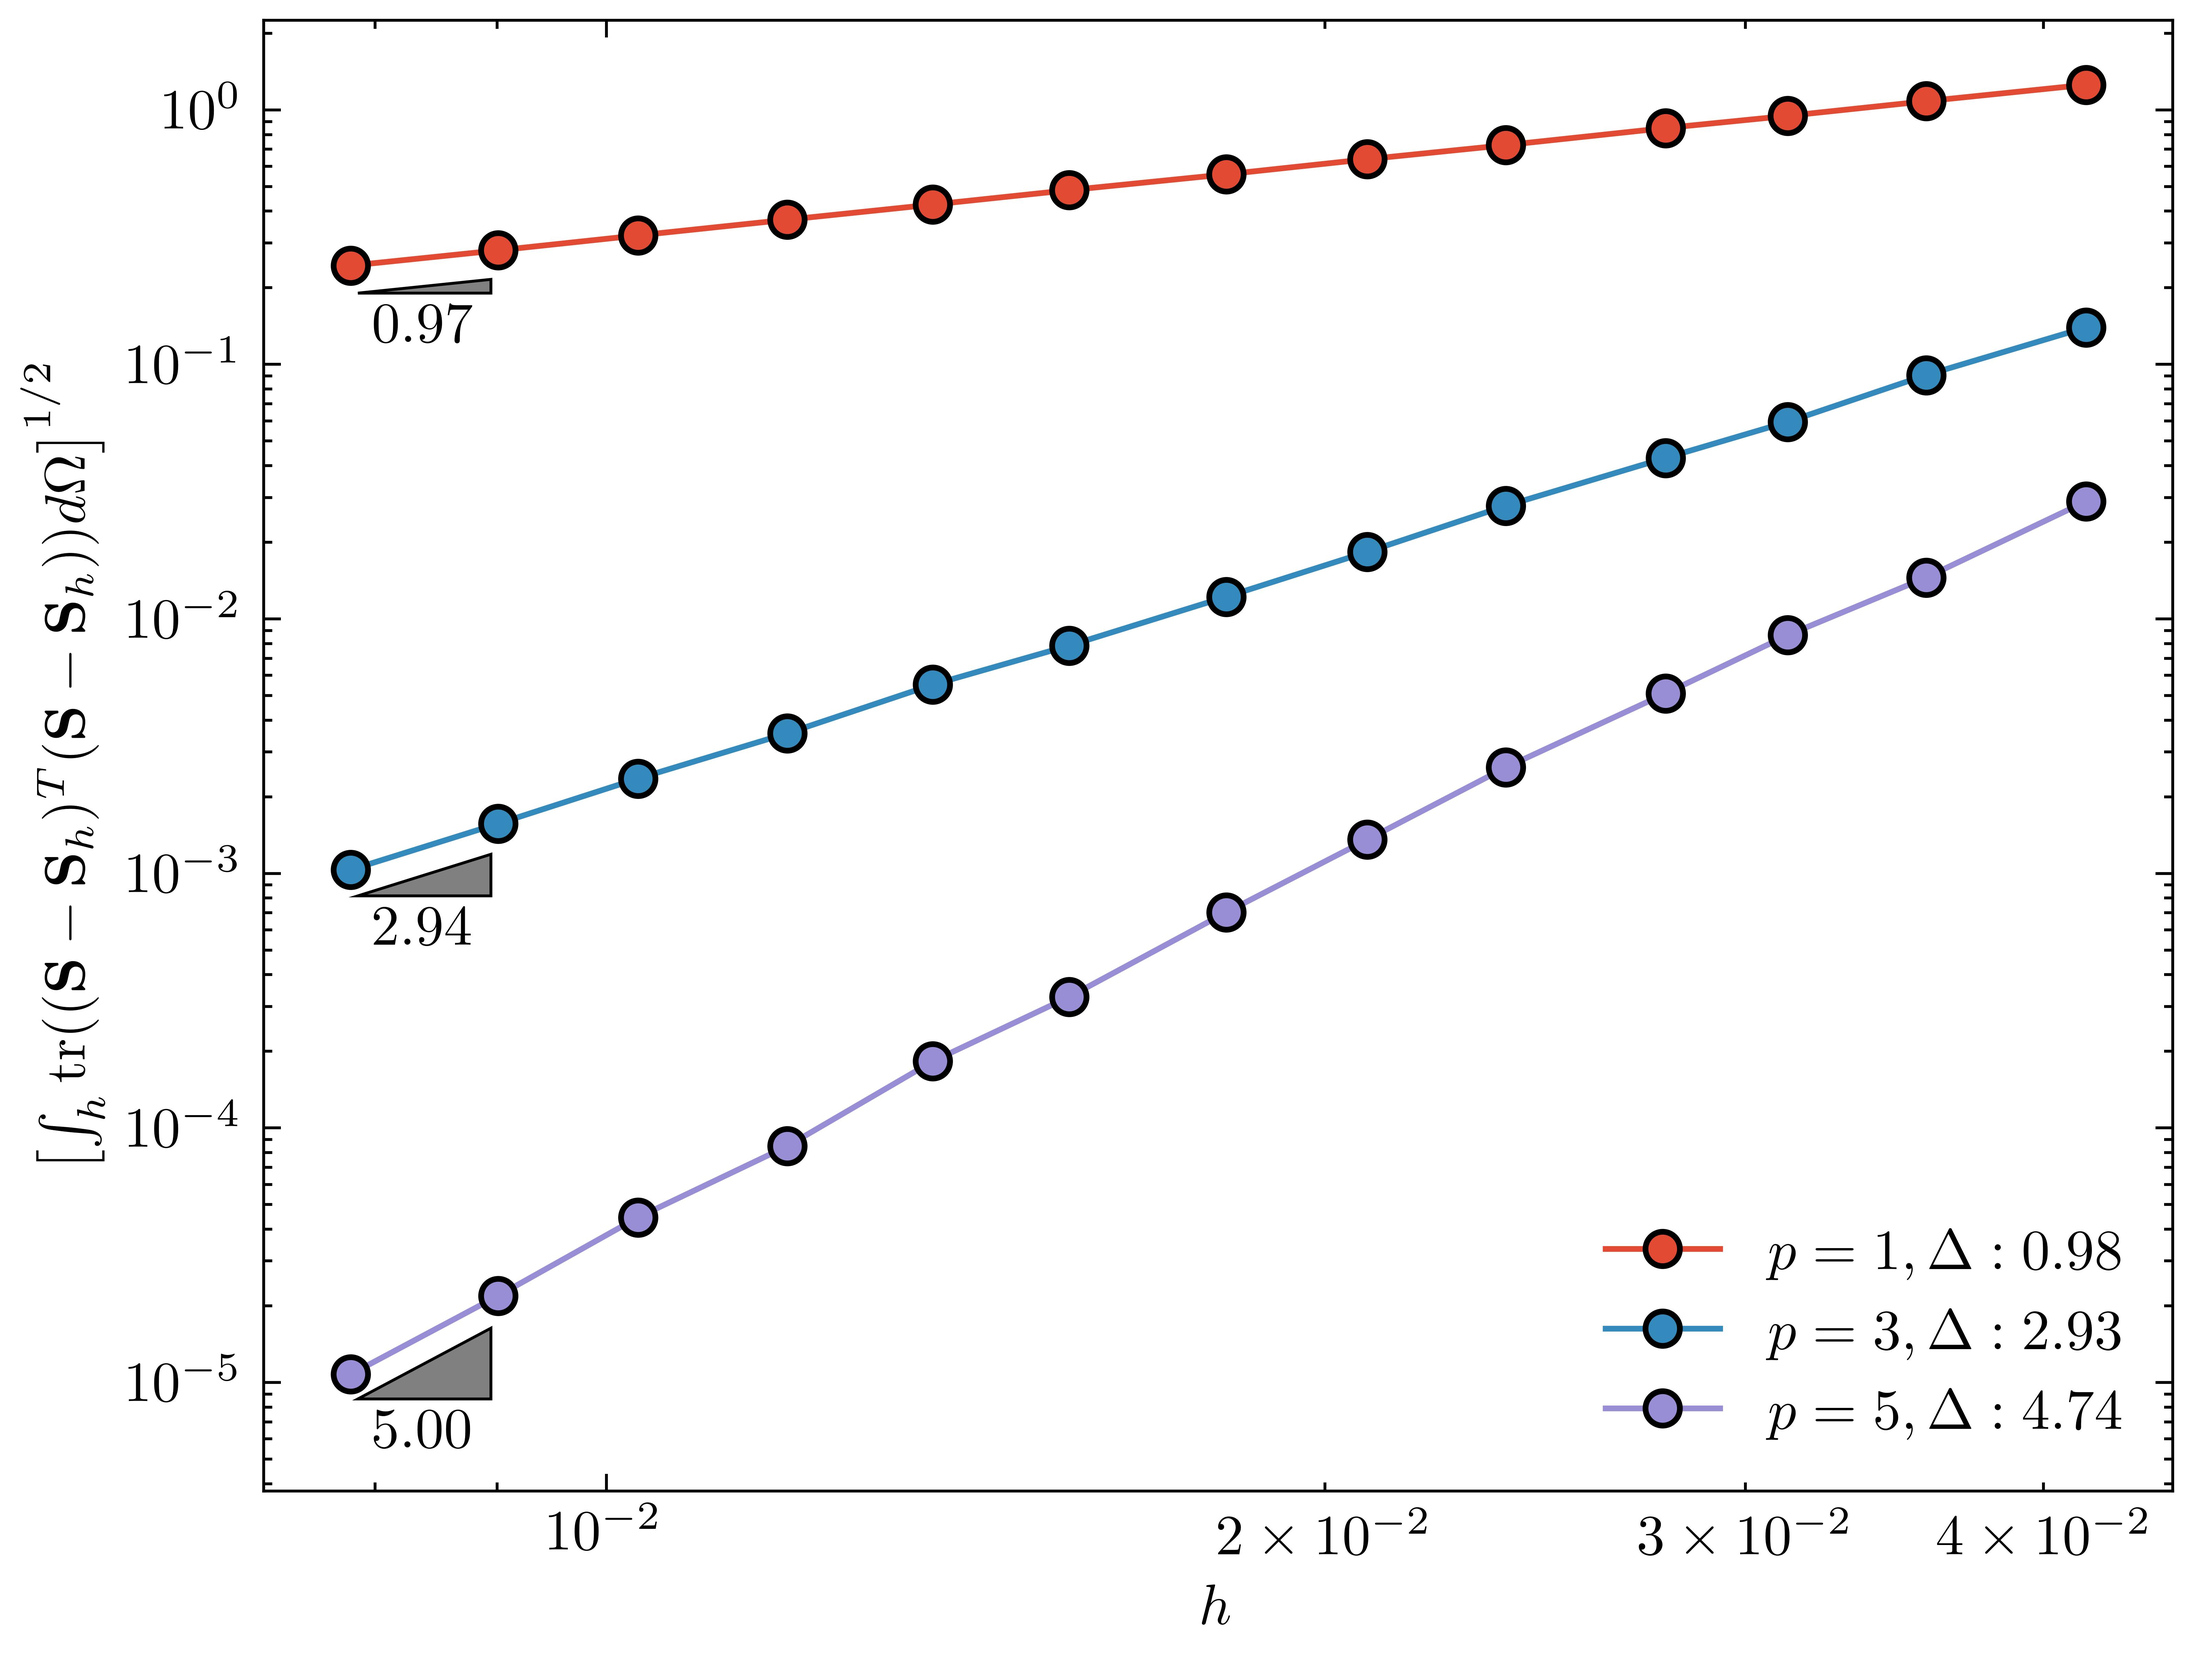
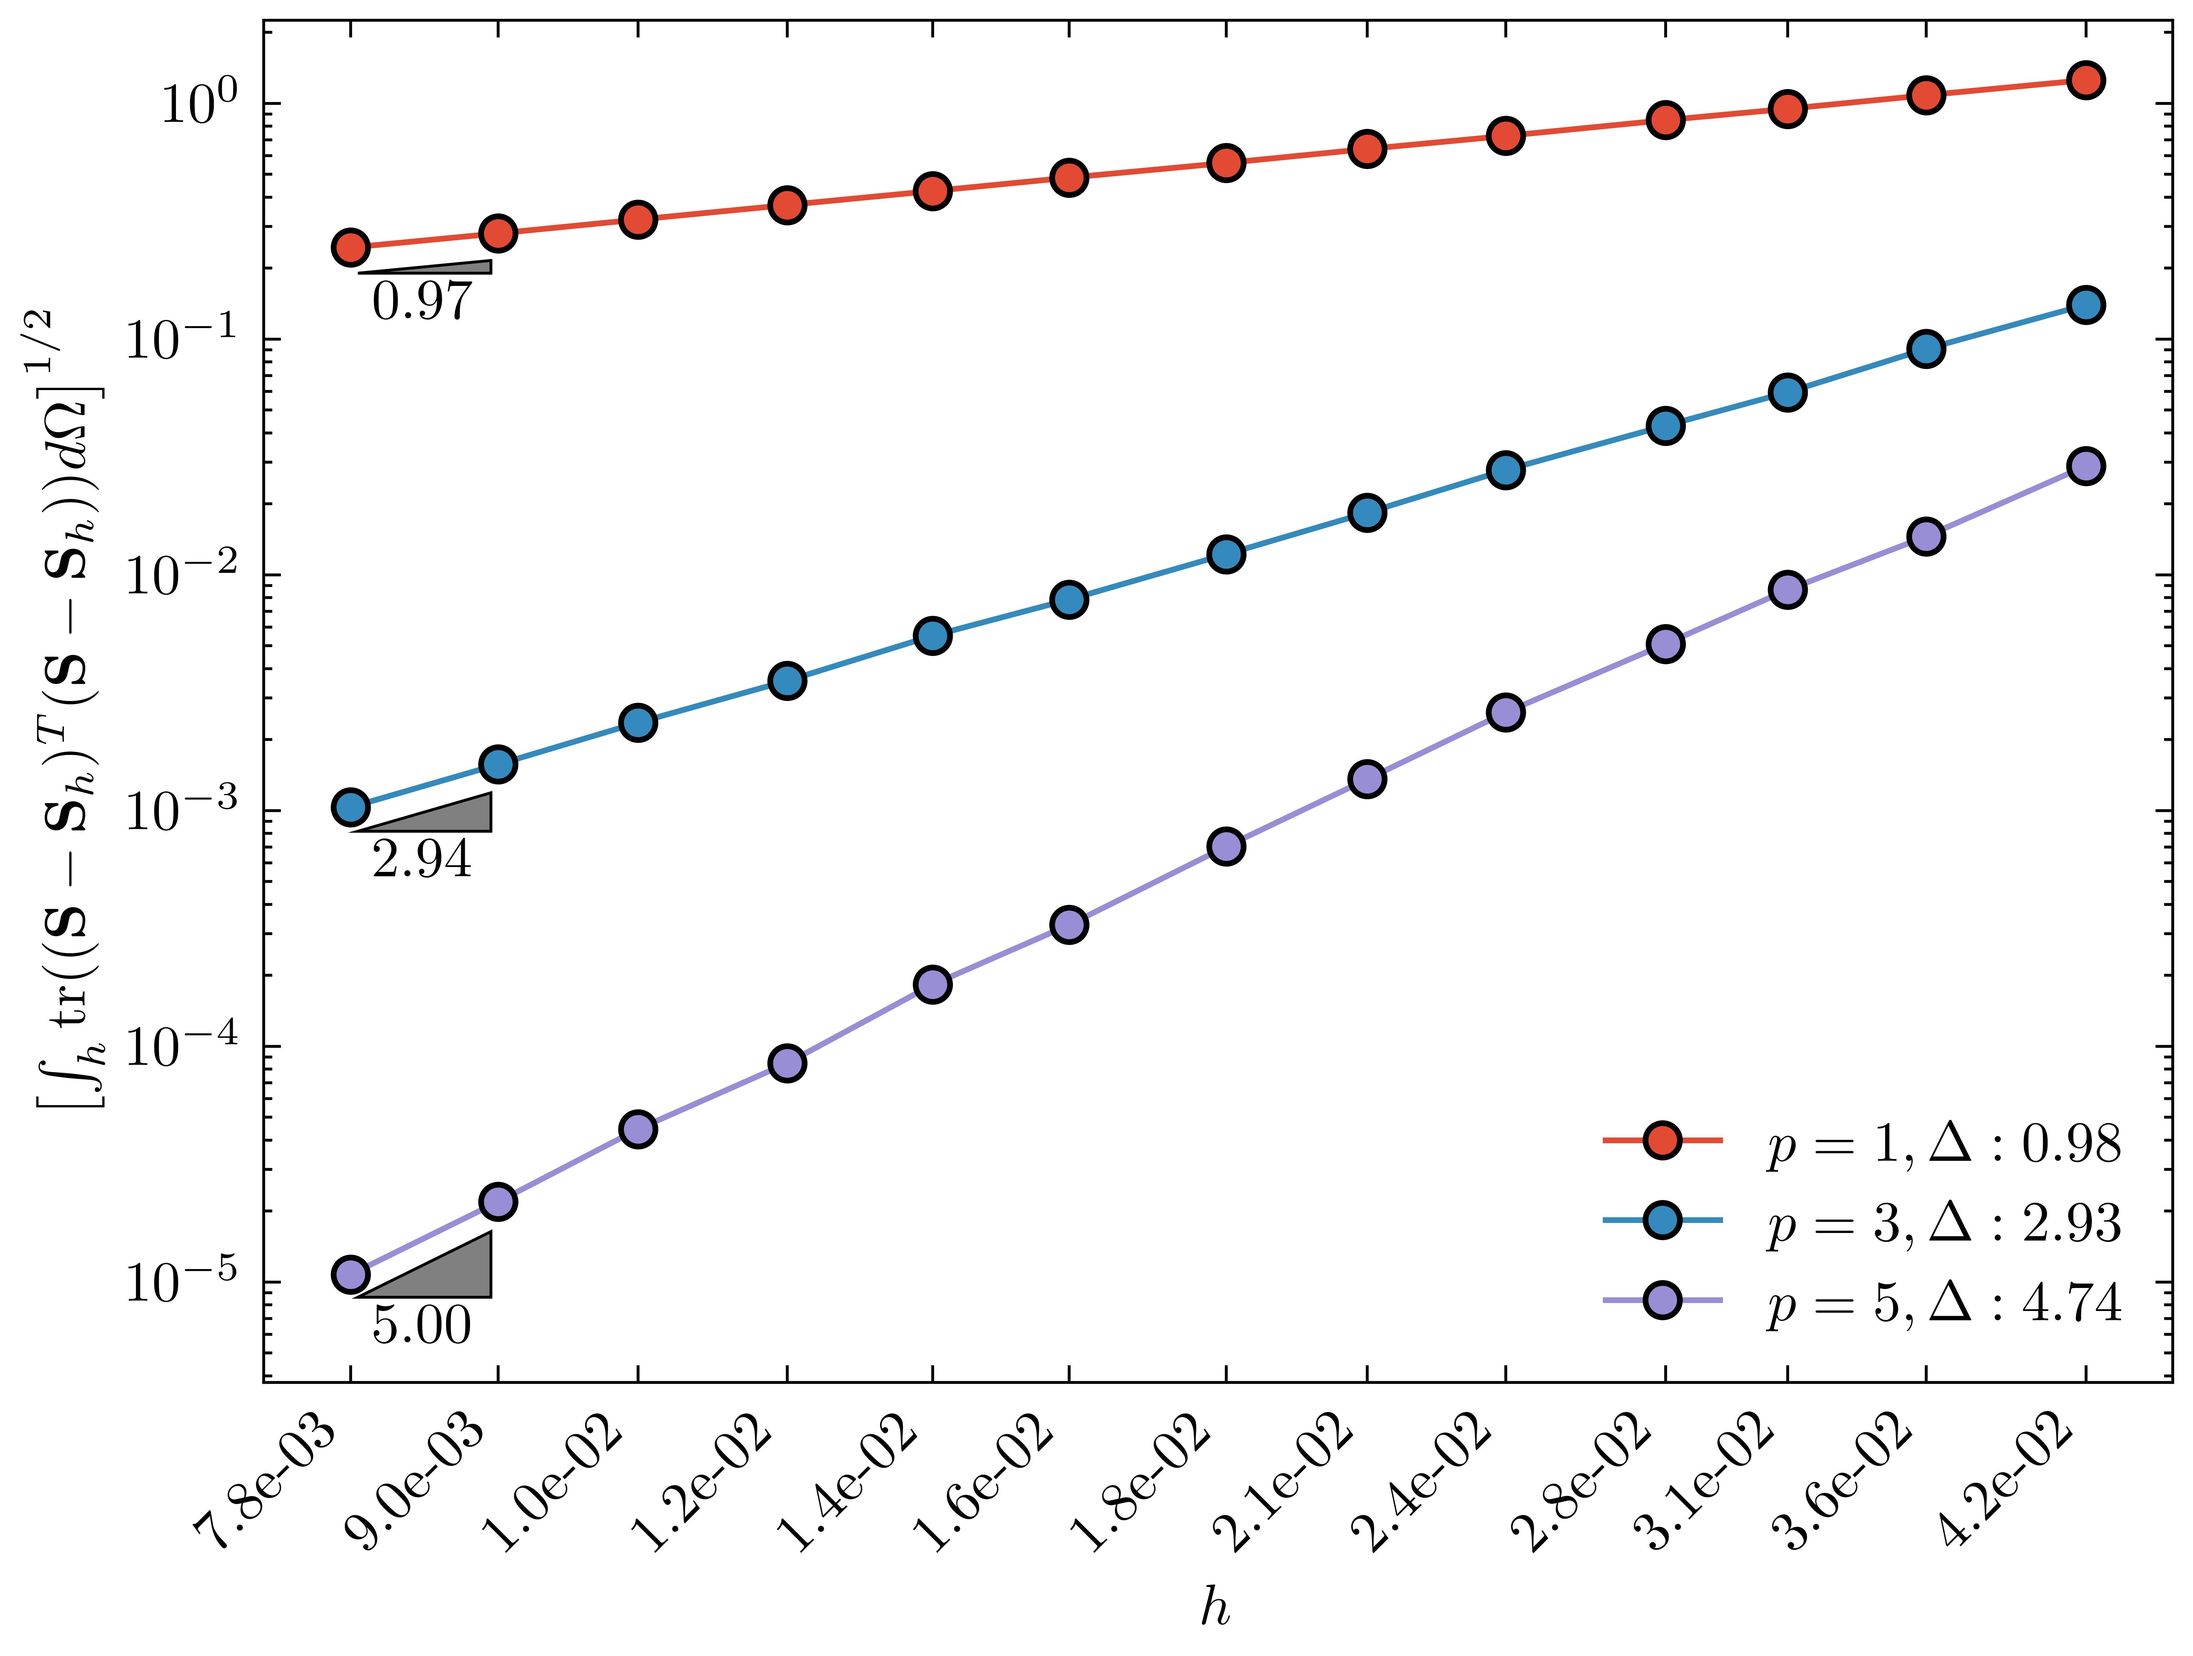
update xticks

diff --git a/line_plot_example.py b/line_plot_example.py
@@ -122,12 +122,26 @@ def plot_precision(df):
             voffset_text=v_off_txt,
         )
 
-        ylabel = r"$\left[\int_h  \text{tr}((\mathbf{S} - \mathbf{S}_h)^T(\mathbf{S} - \mathbf{S}_h)) d\Omega\right]^{1/2}$"
+    # Remove all existing ticks
+    ax.tick_params(axis="x", which="both", length=0, labelbottom=False)
 
-        ax.set_ylim(bottom=ymin * 10.0 ** (v_off_txt * 1.05))
-        ax.legend()
-        ax.set_xlabel(r"$h$")
-        ax.set_ylabel(ylabel)
+    # Set new ticks with explicit positions and labels
+    ax.set_xticks(df["h"].drop_duplicates())
+    ax.set_xticklabels(
+        df["h"].drop_duplicates().apply(lambda x: f"{x:.1e}"),
+        rotation=45,
+        ha="right",
+    )
+
+    # Add ticks
+    ax.tick_params(axis="x", which="major", direction="in", length=3, labelbottom=True)
+
+    ylabel = r"$\left[\int_h  \text{tr}((\mathbf{S} - \mathbf{S}_h)^T(\mathbf{S} - \mathbf{S}_h)) d\Omega\right]^{1/2}$"
+
+    ax.set_ylim(bottom=ymin * 10.0 ** (v_off_txt * 1.05))
+    ax.legend()
+    ax.set_xlabel(r"$h$")
+    ax.set_ylabel(ylabel)
 
     return fig, ax
 
